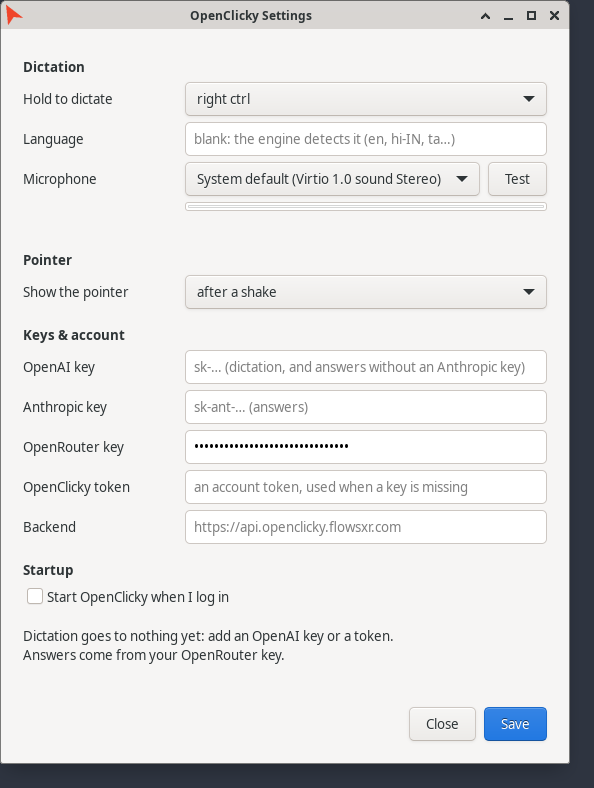
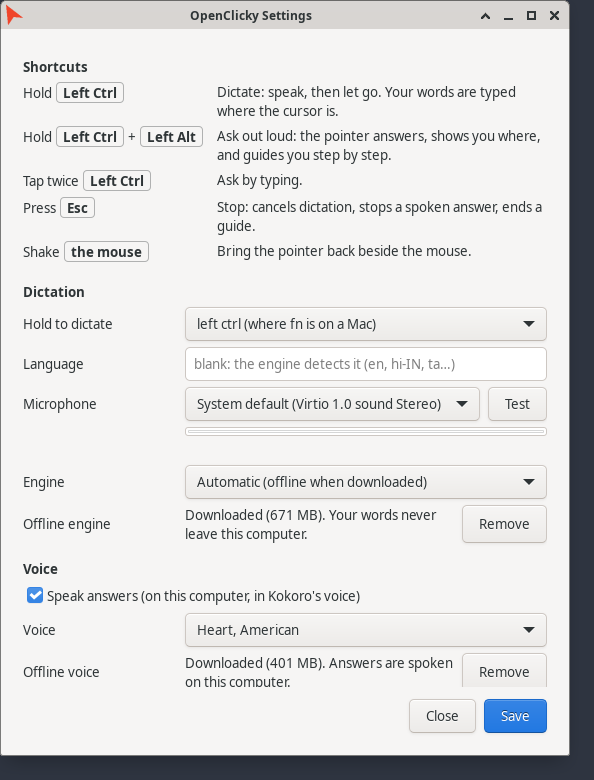
feat(linux): list the shortcuts in Settings, and let Settings scroll
Nothing in Settings said which keys do what. A Shortcuts section now opens it, as the Mac app's
Shortcuts page does: hold left ctrl to dictate, hold left ctrl + left alt to ask out loud, tap left
ctrl twice to ask by typing, esc to stop, and a shake when the pointer waits for one, each with its
keys drawn as keycaps. It follows the "Hold to dictate" key as it is picked (another key can also be
tapped to dictate, left ctrl cannot). Settings had grown taller than the screen, cutting off Save:
it now scrolls, with Close and Save always in sight. 170 tests.

diff --git a/linux/openclicky_linux/windows.py b/linux/openclicky_linux/windows.py
@@ -33,6 +33,25 @@ from .x11 import polygon_rows  # noqa: E402
 DICTATION_KEY_CHOICES = (("Control_L", "left ctrl (where fn is on a Mac)"), ("Control_R", "right ctrl"), ("Alt_R", "right alt"),
                          ("Super_R", "right super"), ("Menu", "menu key"))
 POINTER_CHOICES = tuple(PRESENCE_LABELS.items())
+KEY_NAMES = {"Control_L": "Left Ctrl", "Control_R": "Right Ctrl", "Alt_L": "Left Alt", "Alt_R": "Right Alt",
+             "Super_R": "Right Super", "Menu": "Menu"}
+
+
+def shortcut_rows(dictation_key: str, pointer_presence: str = "always") -> list[tuple[str, tuple[str, ...], str]]:
+    """What each key combination does, as Settings shows it: (how, keys, what it does). Follows the
+    dictation key picked (left ctrl, shared with the ask box, cannot also be tapped to dictate)."""
+    key = KEY_NAMES.get(dictation_key, dictation_key)
+    rows = [("Hold", (key,), "Dictate: speak, then let go. Your words are typed where the cursor is.")]
+    if dictation_key != "Control_L":
+        rows.append(("Tap, then tap again", (key,), "Dictate without holding the key."))
+    rows += [
+        ("Hold", (key, "Left Alt"), "Ask out loud: the pointer answers, shows you where, and guides you step by step."),
+        ("Tap twice", ("Left Ctrl",), "Ask by typing."),
+        ("Press", ("Esc",), "Stop: cancels dictation, stops a spoken answer, ends a guide."),
+    ]
+    if pointer_presence == "onShake":
+        rows.append(("Shake", ("the mouse",), "Bring the pointer back beside the mouse."))
+    return rows
 DICTATION_ENGINE_CHOICES = (("auto", "Automatic (offline when downloaded)"), ("offline", "Offline, on this computer"),
                             ("openai", "OpenAI (your key)"), ("account", "OpenClicky account"))
 MICROPHONE_DEFAULT_ID = "default"
@@ -122,10 +141,22 @@ class SettingsWindow:
         # A test still recording when the window closes stops: the microphone is never left open.
         self.window.connect("hide", lambda _window: self._stop_microphone_test())
         layout = Gtk.Box(orientation=Gtk.Orientation.VERTICAL, spacing=6)
-        self.window.add(layout)
+        # Settings scrolls once it is taller than the screen; Close and Save stay in sight below it.
+        self.scroller = Gtk.ScrolledWindow()
+        self.scroller.set_policy(Gtk.PolicyType.NEVER, Gtk.PolicyType.AUTOMATIC)
+        self.scroller.set_propagate_natural_height(True)
+        self.scroller.add(layout)
+        outer = Gtk.Box(orientation=Gtk.Orientation.VERTICAL)
+        outer.pack_start(self.scroller, True, True, 0)
+        self.window.add(outer)
         self.fields: dict[str, Gtk.Widget] = {}
         self._loaded_speaker: int | None = None
 
+        self._heading(layout, "Shortcuts")
+        # Filled from the dictation key and the pointer setting, and again whenever either changes.
+        self.shortcuts_grid = Gtk.Grid(column_spacing=14, row_spacing=6)
+        self.shortcuts_grid.set_margin_bottom(4)
+        layout.pack_start(self.shortcuts_grid, False, False, 0)
         self._heading(layout, "Dictation")
         self.fields["dictation_key"] = self._choice(layout, "Hold to dictate", DICTATION_KEY_CHOICES)
         self.fields["language_code"] = self._text(layout, "Language", "blank: the engine detects it (en, hi-IN, ta…)")
@@ -175,12 +206,44 @@ class SettingsWindow:
         self.save_button.connect("clicked", lambda _button: self.save())
         buttons.pack_start(close_button, False, False, 0)
         buttons.pack_start(self.save_button, False, False, 0)
-        layout.pack_start(buttons, False, False, 0)
+        outer.pack_start(buttons, False, False, 0)
         for widget in self.fields.values():
             if not isinstance(widget, Gtk.CheckButton):
                 widget.connect("changed", lambda _widget: self._update_routes())
+        self.fields["dictation_key"].connect("changed", lambda _widget: self._show_shortcuts())
+        self.fields["pointer_presence"].connect("changed", lambda _widget: self._show_shortcuts())
+        keycaps = Gtk.CssProvider()
+        keycaps.load_from_data(b".openclicky-keycap { border: 1px solid alpha(currentColor, 0.35); border-radius: 4px;"
+                               b" padding: 0 6px; font-weight: 600; }")
+        Gtk.StyleContext.add_provider_for_screen(Gdk.Screen.get_default(), keycaps, Gtk.STYLE_PROVIDER_PRIORITY_APPLICATION)
 
     # MARK: building
+
+    def _show_shortcuts(self) -> None:
+        for child in self.shortcuts_grid.get_children():
+            self.shortcuts_grid.remove(child)
+        dictation_key = self.fields["dictation_key"].get_active_id() or "Control_L"
+        presence = self.fields["pointer_presence"].get_active_id() if "pointer_presence" in self.fields else "always"
+        self.shortcut_lines = []
+        for row_index, (how, keys, what) in enumerate(shortcut_rows(dictation_key, presence)):
+            combination = Gtk.Box(spacing=4)
+            # Keycaps keep their own height beside a description that wraps onto two lines.
+            combination.set_valign(Gtk.Align.START)
+            combination.pack_start(Gtk.Label(label=how, xalign=0), False, False, 0)
+            for key_index, key in enumerate(keys):
+                if key_index:
+                    combination.pack_start(Gtk.Label(label="+"), False, False, 0)
+                keycap = Gtk.Label(label=key)
+                keycap.get_style_context().add_class("openclicky-keycap")
+                combination.pack_start(keycap, False, False, 0)
+            description = Gtk.Label(label=what, xalign=0)
+            description.set_valign(Gtk.Align.START)
+            description.set_line_wrap(True)
+            description.set_max_width_chars(44)
+            self.shortcuts_grid.attach(combination, 0, row_index, 1, 1)
+            self.shortcuts_grid.attach(description, 1, row_index, 1, 1)
+            self.shortcut_lines.append(f"{how} {' + '.join(keys)}: {what}")
+        self.shortcuts_grid.show_all()
 
     def _heading(self, layout: Gtk.Box, title: str) -> None:
         label = Gtk.Label(xalign=0)
@@ -329,6 +392,7 @@ class SettingsWindow:
         self.start_at_login.set_active(autostart.is_enabled())
         self.offline_row.show_state()
         self.voice_row.show_state()
+        self._show_shortcuts()
         self.status_label.set_text(f"Set in the environment, which wins while it is set: {', '.join(overridden)}." if overridden else "")
         self._update_routes()
 
@@ -401,6 +465,11 @@ class SettingsWindow:
 
     def show(self) -> None:
         self.load()
+        # As tall as it needs, up to the screen less room for panels and the title bar.
+        display = Gdk.Display.get_default()
+        _screen, mouse_x, mouse_y = display.get_default_seat().get_pointer().get_position()[0:3]
+        monitor_height = display.get_monitor_at_point(mouse_x, mouse_y).get_workarea().height
+        self.scroller.set_max_content_height(max(300, monitor_height - 160))
         present_with_focus(self.window)
 
 

diff --git a/linux/tests/x11_scenarios.py b/linux/tests/x11_scenarios.py
@@ -248,6 +248,7 @@ def scenario_settings_window() -> dict:
     settings = app.settings_window
     settings.show()
     pump(0.5)
+    shortcuts_shown = list(settings.shortcut_lines)
     routes_before = settings.routes_label.get_text()
     settings.fields["anthropic_api_key"].set_text("sk-ant-test")
     settings.fields["language_code"].set_text("en-IN")
@@ -255,13 +256,15 @@ def scenario_settings_window() -> dict:
     settings.fields["pointer_presence"].set_active_id("whenAnswering")
     pump(0.2)
     routes_after = settings.routes_label.get_text()
+    shortcuts_after_picking_right_alt = list(settings.shortcut_lines)
     screenshot("settings")
     settings.save_button.clicked()
     pump(0.3)
     shell_json = os.path.join(os.environ["OPENCLICKY_HOME"], "shell.json")
     with open(shell_json, encoding="utf-8") as saved_file:
         saved = json.load(saved_file)
-    return {"routes_before": routes_before, "routes_after": routes_after, "saved": saved,
+    return {"shortcuts_shown": shortcuts_shown, "shortcuts_after_picking_right_alt": shortcuts_after_picking_right_alt,
+            "routes_before": routes_before, "routes_after": routes_after, "saved": saved,
             "mode": oct(os.stat(shell_json).st_mode & 0o777), "status": settings.status_label.get_text(),
             "pointer_presence_now": app.pointer.presence, "pointer_visible_while_following": app.pointer.triangle.get_visible()}
 

diff --git a/linux/tests/test_pointing_and_ask.py b/linux/tests/test_pointing_and_ask.py
@@ -220,3 +220,18 @@ def test_a_linked_shell_json_stays_a_link(tmp_path):
     save_settings({"language_code": "en-IN"}, link)
     assert link.is_symlink()
     assert json.loads(real.read_text()) == {"token": "tok", "language": "en-IN"}
+
+
+def test_settings_say_which_keys_do_what_for_the_key_picked():
+    import gi
+    gi.require_version("Gtk", "3.0")
+    from openclicky_linux.windows import shortcut_rows
+    left = shortcut_rows("Control_L")
+    assert ("Hold", ("Left Ctrl",), "Dictate: speak, then let go. Your words are typed where the cursor is.") in left
+    assert ("Hold", ("Left Ctrl", "Left Alt"), "Ask out loud: the pointer answers, shows you where, and guides you step by step.") in left
+    assert ("Tap twice", ("Left Ctrl",), "Ask by typing.") in left
+    assert not any(how.startswith("Tap, then") for how, _keys, _what in left)  # left ctrl cannot be tapped to dictate
+    right_alt = shortcut_rows("Alt_R", "onShake")
+    assert right_alt[0][1] == ("Right Alt",) and right_alt[1][0] == "Tap, then tap again"
+    assert ("Hold", ("Right Alt", "Left Alt"), "Ask out loud: the pointer answers, shows you where, and guides you step by step.") in right_alt
+    assert ("Shake", ("the mouse",), "Bring the pointer back beside the mouse.") in right_alt

diff --git a/linux/tests/test_x11.py b/linux/tests/test_x11.py
@@ -104,6 +104,11 @@ def test_left_ctrl_twice_asks_and_the_pointer_flies_to_the_answer(private_displa
 def test_settings_show_the_routes_and_save_into_shell_json(private_display, tmp_path):
     (tmp_path / "shell.json").write_text(json.dumps({"refreshToken": "keep-me"}))
     outcome = run_scenario("settings_window", private_display, openclicky_home=tmp_path)
+    assert "Hold Left Ctrl + Left Alt: Ask out loud: the pointer answers, shows you where, and guides you step by step." in outcome["shortcuts_shown"]
+    assert "Tap twice Left Ctrl: Ask by typing." in outcome["shortcuts_shown"]
+    # The list follows the key picked, at once (the scenario picks right alt, which can also be tapped).
+    assert outcome["shortcuts_after_picking_right_alt"][0].startswith("Hold Right Alt: Dictate")
+    assert "Tap, then tap again Right Alt: Dictate without holding the key." in outcome["shortcuts_after_picking_right_alt"]
     assert "Answers come from nothing yet" in outcome["routes_before"]
     assert "Answers come from your Anthropic key" in outcome["routes_after"]
     assert outcome["saved"] == {"refreshToken": "keep-me", "anthropicApiKey": "sk-ant-test", "language": "en-IN",

diff --git a/docs/linux.md b/docs/linux.md
@@ -103,7 +103,8 @@ From the tray icon (**Settings…**), or `openclicky-linux settings`:
 
 ![The Settings window: dictation key, language, show the pointer, and the keys](media/linux/settings.png)
 
-*Shown with an example key, not a real one.* **Microphone** lists every input your sound system
+**Shortcuts**, at the top, lists every key combination and what it does, for the dictation key you
+picked. *Shown with an example key, not a real one.* **Microphone** lists every input your sound system
 knows (a headset plugged in since shows up next time Settings opens); **Test** records three
 seconds with a level meter and says whether it heard you, keeping nothing. Below the fields it says
 where dictation and answers will go, as you type. **Save** writes into `~/.openclicky/shell.json`, the file the Mac app and the
